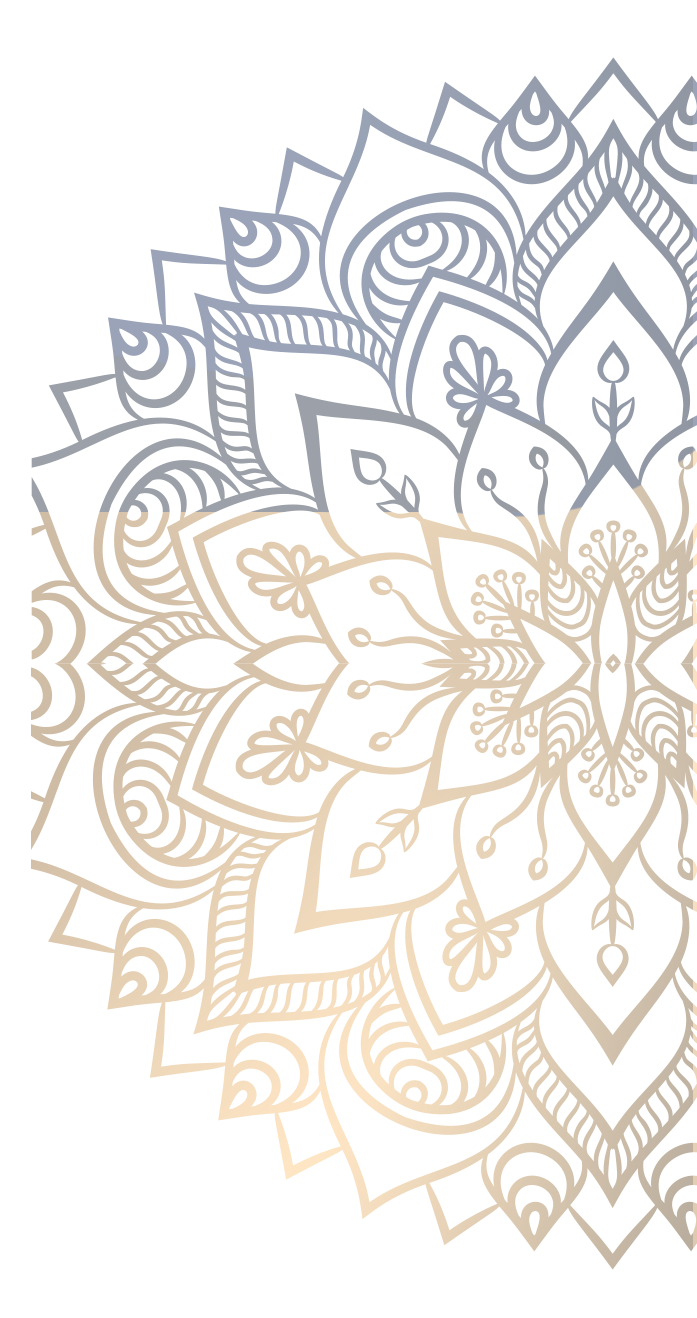
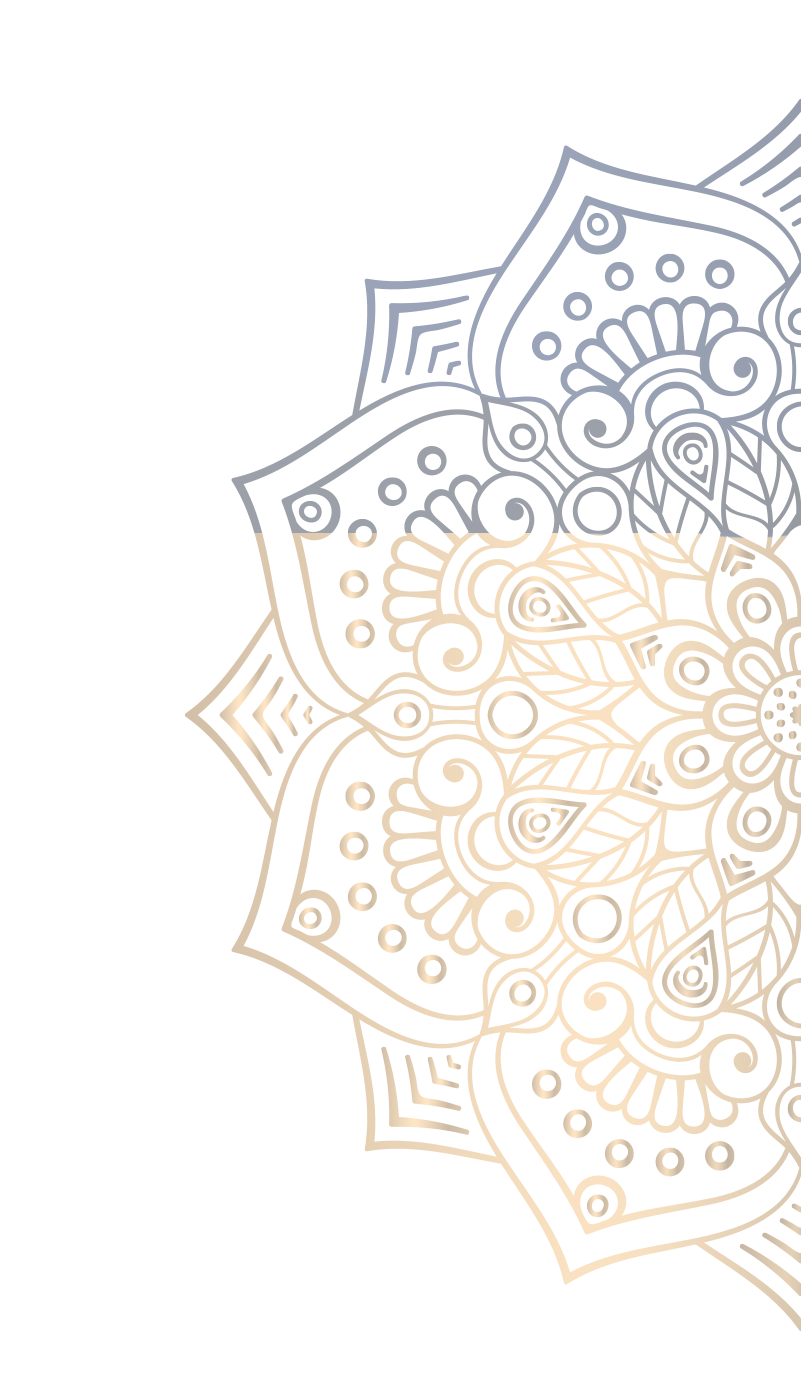
New background image

diff --git a/site/index.html b/site/index.html
@@ -2,7 +2,7 @@
 <html lang="ru">
 <head>
     <meta charset="utf-8">
-    <title>Title</title>
+    <title>EXPO 2020</title>
     <meta name="viewport" content="width=device-width, initial-scale=1">
     <link href="css/bootstrap.min.css" rel="stylesheet">
     <link href="css/custom.css" rel="stylesheet">
@@ -84,7 +84,7 @@
                 </div>
                 <div class="col-lg-6 col-md-7 col-sm-12">
                     <div class="about--videowrapper">
-                        <iframe src="https://www.youtube.com/embed/Xc2NeCeWS7k?autoplay=0&mute=0" allowfullscreen> </iframe>
+							<iframe controls poster="images/categories/arch.jpg" src="https://www.youtube.com/embed/Xc2NeCeWS7k?autoplay=0&mute=0" allowfullscreen> </iframe>
                     </div>
                 </div>
             </div>
@@ -98,7 +98,7 @@
                 <div class="col-lg-3 col-md-3 col-sm-6 col-12">
                     <div class="expo--iconwrap">
                         <div class="expo--icon">
-                            <img src="images/icons/pavilion.png" alt="">
+                            <img src="images/icons/pavilion.png" alt="Павильоны">
                         </div>
                         <div class="expo--text">
                             <h4 class="expo--header">200+</h4>
@@ -144,7 +144,7 @@
                 <div class="col-lg-4 col-md-6 col-sm-6 col-12">
                     <div class="expo--card">
                         <div class="expo--cardimage">
-                            <img src="images/categories/inn_tech.jpg" alt="">
+                            <img src="images/categories/inn_tech.jpg" alt="Инновации и технологии">
                         </div>
                         <div class="expo--cardtitle">
                             <p>Инновации и технологии</p>
@@ -154,7 +154,7 @@
                 <div class="col-lg-4 col-md-6 col-sm-6 col-12">
                     <div class="expo--card">
                         <div class="expo--cardimage">
-                            <img src="images/categories/game.jpg" alt="">
+                            <img src="images/categories/game.jpg" alt="Развлечения">
                         </div>
                         <div class="expo--cardtitle">
                             <p>Развлечения</p>
@@ -164,7 +164,7 @@
                 <div class="col-lg-4 col-md-6 col-sm-6 col-12">
                     <div class="expo--card">
                         <div class="expo--cardimage">
-                            <img src="images/categories/art_cult.jpg" alt="">
+                            <img src="images/categories/art_cult.jpg" alt=">Искусство и культура">
                         </div>
                         <div class="expo--cardtitle">
                             <p>Искусство и культура</p>
@@ -174,7 +174,7 @@
                 <div class="col-lg-4 col-md-6 col-sm-6 col-12">
                     <div class="expo--card">
                         <div class="expo--cardimage">
-                            <img src="images/categories/food.jpg" alt="">
+                            <img src="images/categories/food.jpg" alt="Рестораны">
                         </div>
                         <div class="expo--cardtitle">
                             <p>Рестораны</p>
@@ -184,7 +184,7 @@
                 <div class="col-lg-4 col-md-6 col-sm-6 col-12">
                     <div class="expo--card">
                         <div class="expo--cardimage">
-                            <img src="images/categories/edu.jpg" alt="">
+                            <img src="images/categories/edu.jpg" alt="Образовательные программы">
                         </div>
                         <div class="expo--cardtitle">
                             <p>Образовательные программы</p>
@@ -194,7 +194,7 @@
                 <div class="col-lg-4 col-md-6 col-sm-6 col-12">
                     <div class="expo--card">
                         <div class="expo--cardimage">
-                            <img src="images/categories/architercture.webp" alt="">
+                            <img src="images/categories/architercture.webp" alt="Архитектура">
                         </div>
                         <div class="expo--cardtitle">
                             <p>Архитектура</p>
@@ -268,7 +268,7 @@
                             </div>
                             <div class="tabcontent--text">
                                 <p>
-                                    1Незабываемые впечатления, свежие ракурсы, ваши лучшие фото в инстаграм! Живописные восходы и закаты включены в стоимость.
+                                    Незабываемые впечатления, свежие ракурсы, ваши лучшие фото в инстаграм! Живописные восходы и закаты включены в стоимость.
                                 </p>
                             </div>
                         </div>
@@ -316,7 +316,7 @@
                                 </p>
                             </div>
                         </div>
-                        <a href="#tab6" class="vacation-tablink">Индустриальный туризмх</a>
+                        <a href="#tab6" class="vacation-tablink">Индустриальный туризм</a>
                         <div class="vacation--tabcontent" id="tab6">
                             <div class="tabcontent--image">
                                 <img src="images/categories/arch.jpg">
